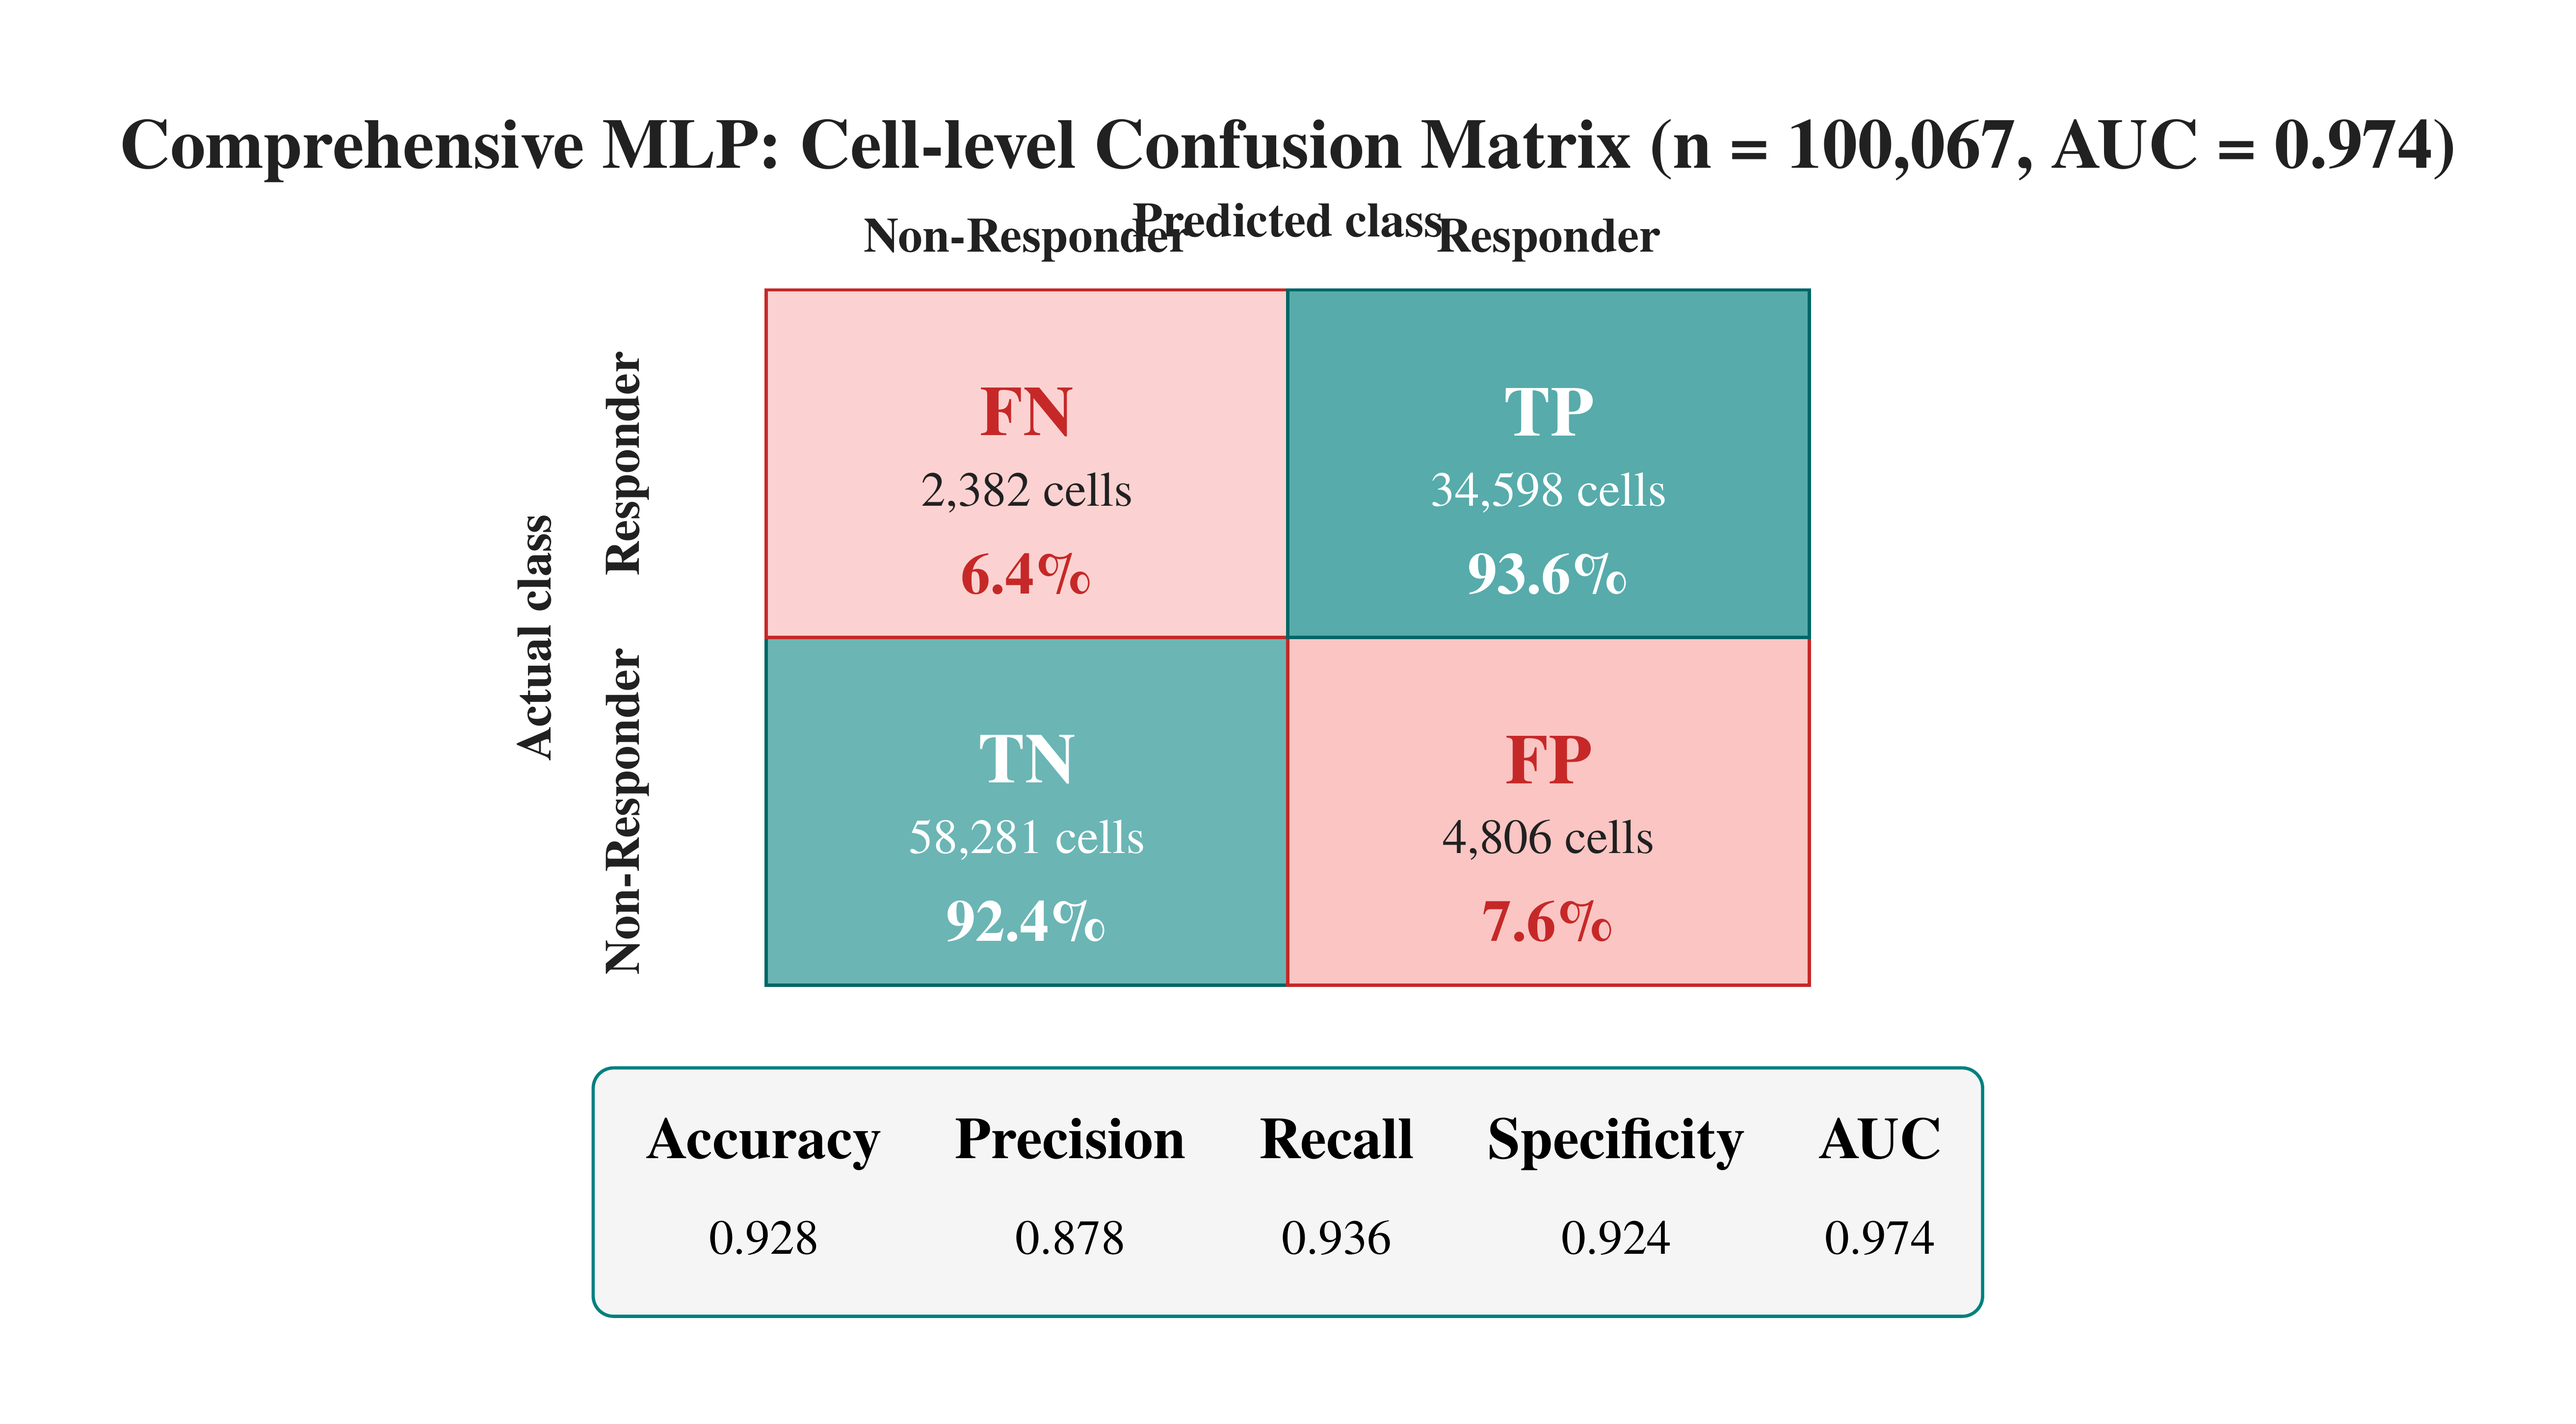
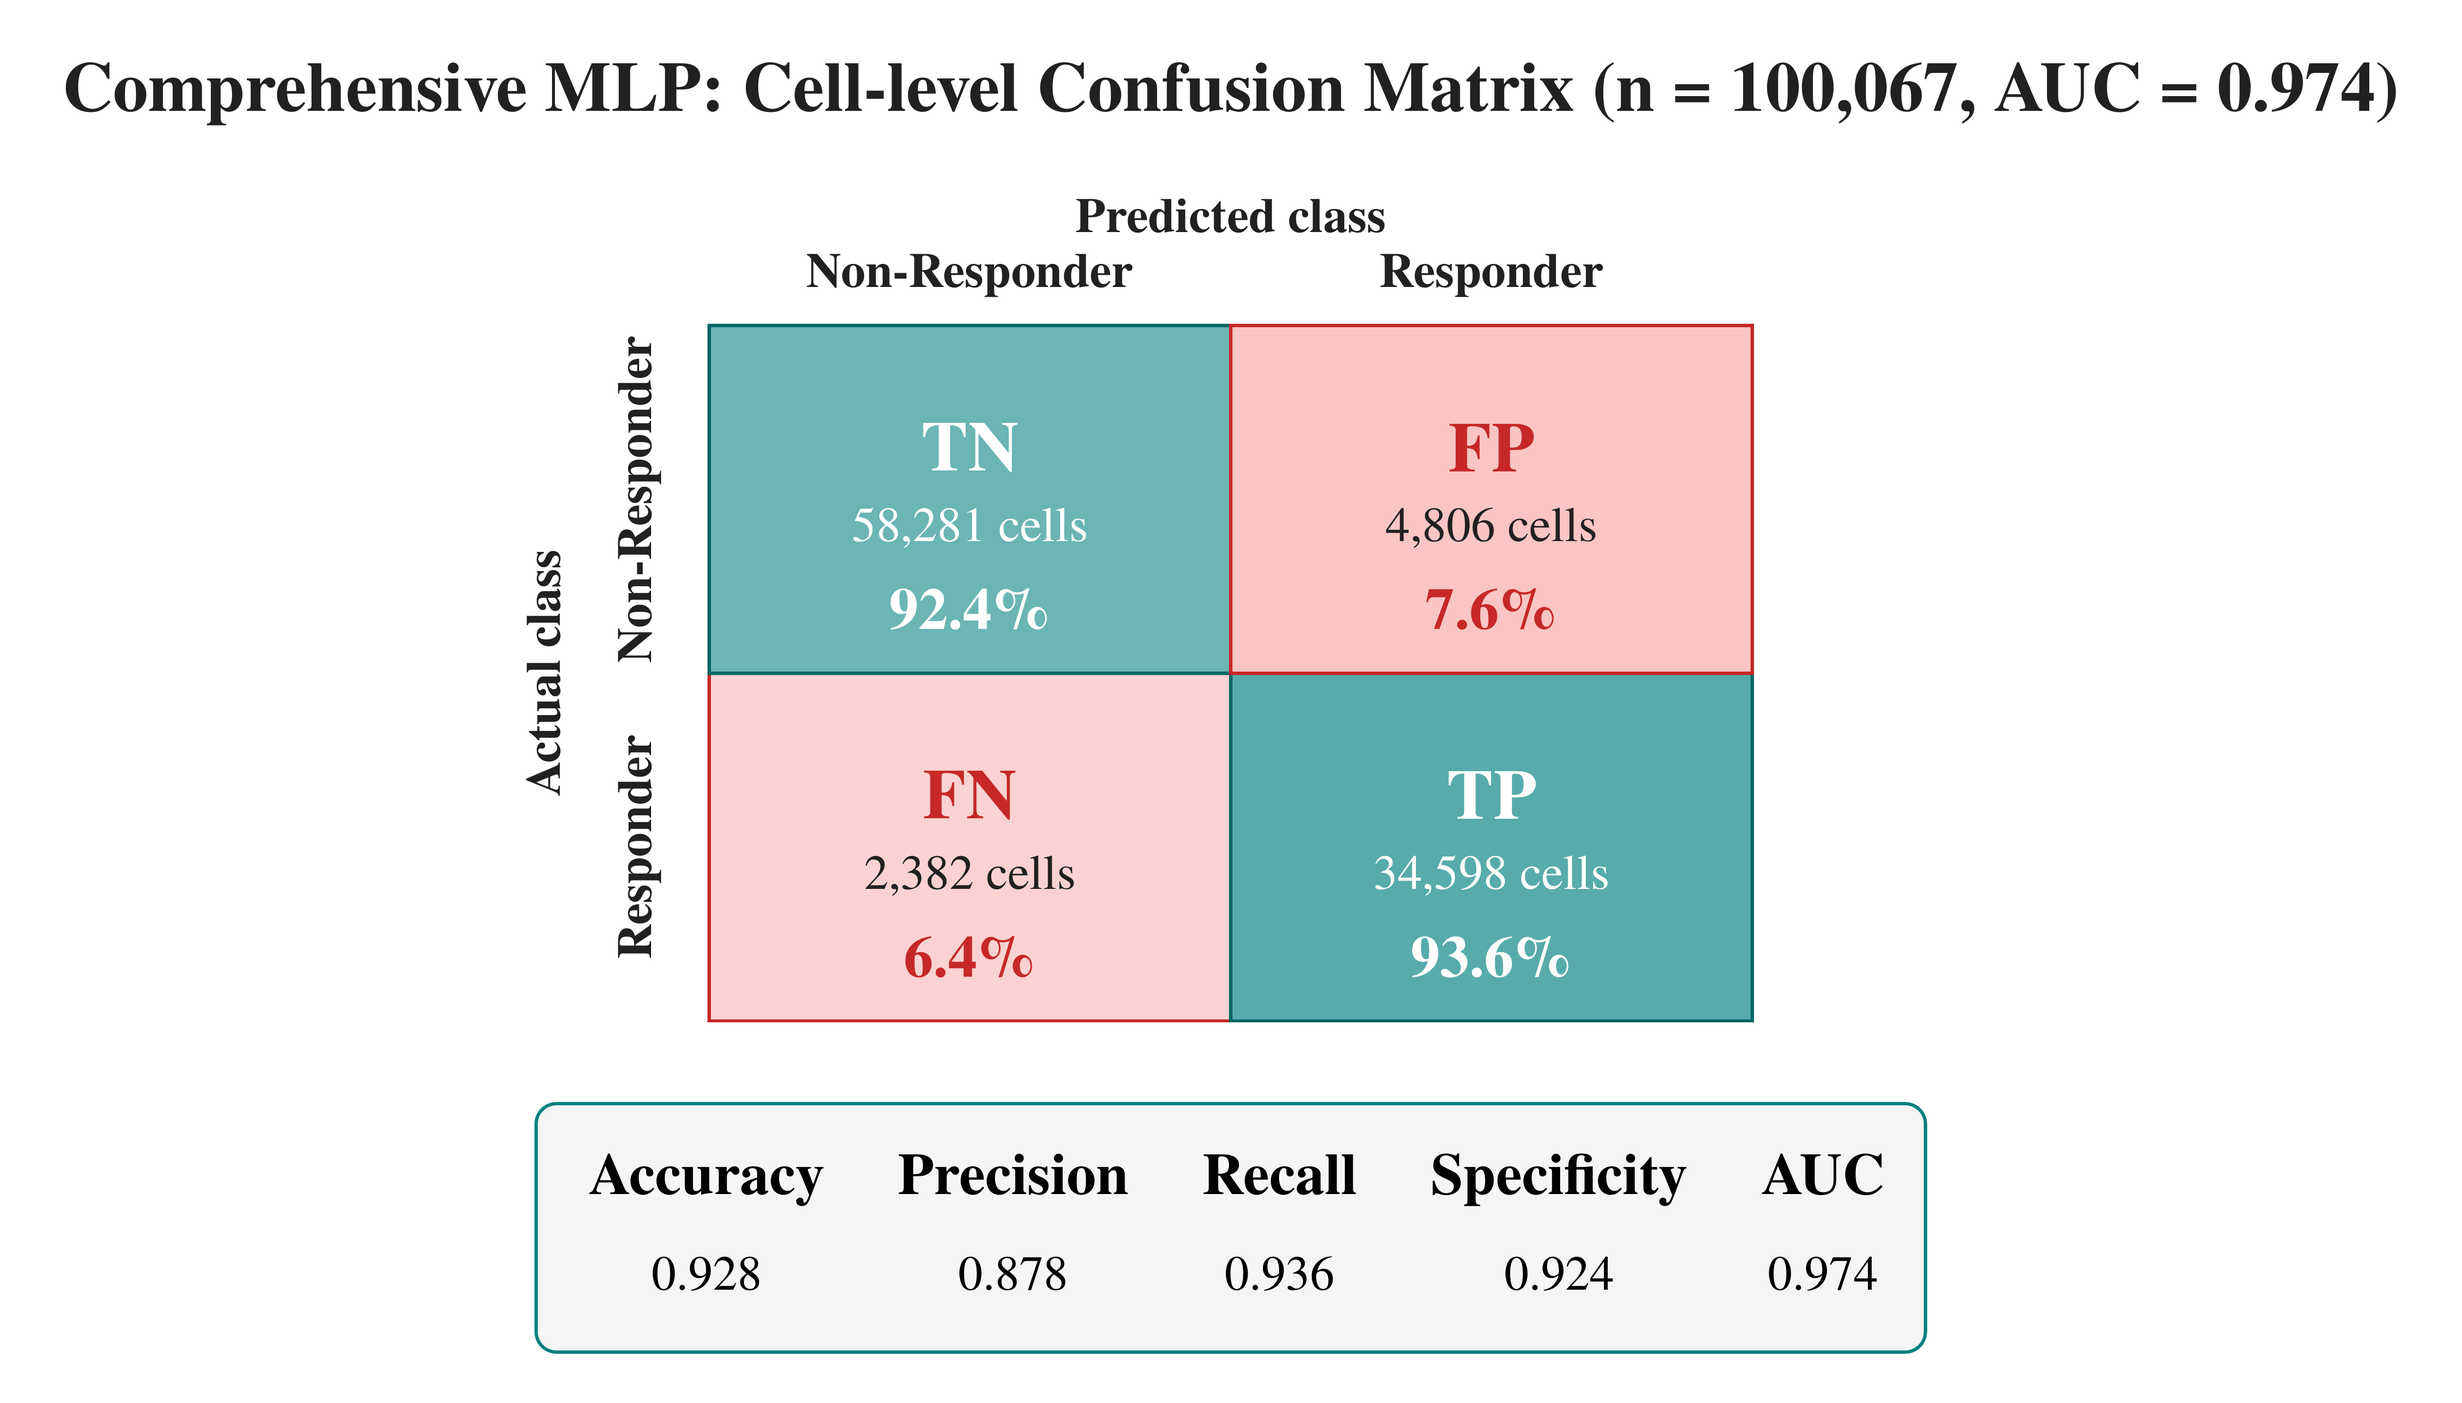
fixed issues

Changed region(s): [[0.0311, 0.0311, 0.9637, 0.7469], [0.3731, 0.7469, 0.7772, 0.9336], [0.2176, 0.778, 0.342, 0.9647]]

diff --git a/Image/fig06_confusion.tex b/Image/fig06_confusion.tex
@@ -1,4 +1,4 @@
-\documentclass[border=26pt]{standalone}
+\documentclass[border=12pt]{standalone}
 \usepackage{tikz}
 \usepackage{xcolor}
 \usepackage{newtxtext,newtxmath}
@@ -14,39 +14,37 @@
 \definecolor{darktext}{HTML}{212121}
 \begin{document}
 \begin{tikzpicture}[font=\large]
-% set equal top/side spacing = 1.2 units
-\node[font=\LARGE\bfseries,text=darktext] at (4.5,7.2) {Comprehensive MLP: Cell-level Confusion Matrix (n = 100,067, AUC = 0.974)};
-\node[font=\large\bfseries,text=darktext,align=center] at (4.5,6.6) {Predicted class};
+\node[font=\LARGE\bfseries,text=darktext] at (4.5,8.0) {Comprehensive MLP: Cell-level Confusion Matrix (n = 100,067, AUC = 0.974)};
+\node[font=\large\bfseries,text=darktext,align=center] at (4.5,7.0) {Predicted class};
 \node[font=\large\bfseries,text=darktext,align=center,anchor=south] at (2.25,6.12) {Non-Responder};
 \node[font=\large\bfseries,text=darktext,align=center,anchor=south] at (6.75,6.12) {Responder}; 
-% left-side spacing of 1.2 units (matrix left edge at x=0)
-\node[font=\large\bfseries,text=darktext,rotate=90,transform shape,anchor=center] at (-2.0,3.0) {Actual class};
-\node[font=\large\bfseries,text=darktext,rotate=90,transform shape,align=center,anchor=center] at (-1.2,4.5) {Responder};
-\node[font=\large\bfseries,text=darktext,rotate=90,transform shape,align=center,anchor=center] at (-1.2,1.5) {Non-Responder};
+\node[font=\large\bfseries,text=darktext,rotate=90,transform shape,anchor=center] at (-1.33,3.0) {Actual class};
+\node[font=\large\bfseries,text=darktext,rotate=90,transform shape,align=center,anchor=center] at (-0.6,4.5) {Non-Responder};
+\node[font=\large\bfseries,text=darktext,rotate=90,transform shape,align=center,anchor=center] at (-0.6,1.5) {Responder};
 
-\fill[teal!58] (0,0) rectangle (4.5,3.0);
-\draw[tealdark,thick] (0,0) rectangle (4.5,3.0);
-\node[font=\LARGE\bfseries,text=white] at (2.25,1.95) {TN};
-\node[font=\large,text=white] at (2.25,1.25) {58,281 cells};
-\node[font=\Large\bfseries,text=white] at (2.25,0.55) {92.4\%};
+\fill[warmred!26] (0,0) rectangle (4.5,3.0);
+\draw[accentred,thick] (0,0) rectangle (4.5,3.0);
+\node[font=\LARGE\bfseries,text=accentred] at (2.25,1.95) {FN};
+\node[font=\large,text=darktext] at (2.25,1.25) {2,382 cells};
+\node[font=\Large\bfseries,text=accentred] at (2.25,0.55) {6.4\%};
 
-\fill[warmred!34] (4.5,0) rectangle (9.0,3.0);
-\draw[accentred,thick] (4.5,0) rectangle (9.0,3.0);
-\node[font=\LARGE\bfseries,text=accentred] at (6.75,1.95) {FP};
-\node[font=\large,text=darktext] at (6.75,1.25) {4,806 cells};
-\node[font=\Large\bfseries,text=accentred] at (6.75,0.55) {7.6\%};
+\fill[teal!66] (4.5,0) rectangle (9.0,3.0);
+\draw[tealdark,thick] (4.5,0) rectangle (9.0,3.0);
+\node[font=\LARGE\bfseries,text=white] at (6.75,1.95) {TP};
+\node[font=\large,text=white] at (6.75,1.25) {34,598 cells};
+\node[font=\Large\bfseries,text=white] at (6.75,0.55) {93.6\%};
 
-\fill[warmred!26] (0,3.0) rectangle (4.5,6.0);
-\draw[accentred,thick] (0,3.0) rectangle (4.5,6.0);
-\node[font=\LARGE\bfseries,text=accentred] at (2.25,4.95) {FN};
-\node[font=\large,text=darktext] at (2.25,4.25) {2,382 cells};
-\node[font=\Large\bfseries,text=accentred] at (2.25,3.55) {6.4\%};
+\fill[teal!58] (0,3.0) rectangle (4.5,6.0);
+\draw[tealdark,thick] (0,3.0) rectangle (4.5,6.0);
+\node[font=\LARGE\bfseries,text=white] at (2.25,4.95) {TN};
+\node[font=\large,text=white] at (2.25,4.25) {58,281 cells};
+\node[font=\Large\bfseries,text=white] at (2.25,3.55) {92.4\%};
 
-\fill[teal!66] (4.5,3.0) rectangle (9.0,6.0);
-\draw[tealdark,thick] (4.5,3.0) rectangle (9.0,6.0);
-\node[font=\LARGE\bfseries,text=white] at (6.75,4.95) {TP};
-\node[font=\large,text=white] at (6.75,4.25) {34,598 cells};
-\node[font=\Large\bfseries,text=white] at (6.75,3.55) {93.6\%};
+\fill[warmred!34] (4.5,3.0) rectangle (9.0,6.0);
+\draw[accentred,thick] (4.5,3.0) rectangle (9.0,6.0);
+\node[font=\LARGE\bfseries,text=accentred] at (6.75,4.95) {FP};
+\node[font=\large,text=darktext] at (6.75,4.25) {4,806 cells};
+\node[font=\Large\bfseries,text=accentred] at (6.75,3.55) {7.6\%};
 
 % removed duplicate metric table; keeping the improved table below
 \node[draw=teal,thick,rounded corners=5pt,fill=lightgray,inner sep=10pt,anchor=north] at (4.5,-0.7) {

diff --git a/Image/visual_abstract.tex b/Image/visual_abstract.tex
@@ -1,0 +1,84 @@
+% Standalone visual abstract for peripheral blood -> response prediction
+\documentclass[tikz,border=10pt]{standalone}
+\usepackage{tikz}
+\usetikzlibrary{shadows,shapes,arrows.meta,positioning,calc}
+\begin{document}
+\begin{tikzpicture}[font=\sffamily, every node/.style={align=center}]
+  % Colors
+  \definecolor{step1}{RGB}{230,240,255}
+  \definecolor{step2}{RGB}{230,255,230}
+  \definecolor{step3}{RGB}{255,245,230}
+  \definecolor{step4}{RGB}{245,230,255}
+  \definecolor{step5}{RGB}{230,255,245}
+
+  % Common styles
+  \tikzset{step/.style={rectangle,rounded corners=6pt,draw=gray!50,very thick,minimum width=2.6cm,minimum height=3.0cm,inner sep=6pt,drop shadow={shadow xshift=1pt,shadow yshift=-1pt}}}
+  \tikzset{labelsmall/.style={font=\footnotesize,color=black}}
+
+  % Coordinates
+  \coordinate (A) at (0,0);
+  \coordinate (B) at (4,0);
+  \coordinate (C) at (8,0);
+  \coordinate (D) at (12,0);
+  \coordinate (E) at (16,0);
+
+  % Step 1: Peripheral blood (droplet)
+  \node[step,fill=step1] (s1) at (A) {};
+  \begin{scope}[shift={(s1.center)}]
+    \fill[red!70!black] (-0.25,0.2) .. controls (0,0.9) and (0.6,0.9) .. (0.6,0.2) .. controls (0.3,-0.9) and (-0.65,-0.1) .. (-0.25,0.2) ;
+  \end{scope}
+  \node[labelsmall,below=2.6em of s1] {Peripheral\\blood};
+
+  % Step 2: scRNA + TCR (cell + chain)
+  \node[step,fill=step2] (s2) at (B) {};
+  \begin{scope}[shift={(s2.center)}]
+    \draw[fill=blue!70!black] (-0.5,-0.1) circle (0.6cm);
+    \draw[line width=1.2pt] (0.15,-0.2) to[out=30,in=210] (1.0,0.6) to[out=30,in=210] (1.8,1.3);
+    \foreach \x in {0.9,1.4,1.8} \fill[gray] (\x,0.6) circle (0.08cm);
+  \end{scope}
+  \node[labelsmall,below=2.6em of s2] {scRNA +\\TCR sequencing};
+
+  % Step 3: Feature engineering (gears/blocks)
+  \node[step,fill=step3] (s3) at (C) {};
+  \begin{scope}[shift={(s3.center)}]
+    \fill[orange!80!black] (-0.9,0) circle (0.28cm);
+    \fill[orange!80!black] (0,0) circle (0.28cm);
+    \fill[orange!80!black] (0.9,0) circle (0.28cm);
+    \draw[thick] (-1.25,0) -- (-0.55,0);
+    \draw[thick] (-0.25,0) -- (0.25,0);
+    \draw[thick] (0.55,0) -- (1.25,0);
+  \end{scope}
+  \node[labelsmall,below=2.6em of s3] {Feature\\engineering};
+
+  % Step 4: Unsupervised clustering + supervised models (clusters + model box)
+  \node[step,fill=step4] (s4) at (D) {};
+  \begin{scope}[shift={(s4.center)}]
+    \fill[purple!70!black] (-0.6,0.2) circle (0.12cm);
+    \fill[purple!70!black] (-0.1,-0.3) circle (0.12cm);
+    \fill[purple!70!black] (0.5,0.1) circle (0.12cm);
+    \fill[purple!70!black] (0.9,-0.25) circle (0.12cm);
+    \draw[rounded corners=4pt,thick] (-0.85,-0.9) rectangle (-0.25,-0.5);
+    \node[font=\scriptsize,anchor=west] at (-0.83,-0.7) {Autoencoder};
+  \end{scope}
+  \node[labelsmall,below=2.6em of s4] {Clustering +\\Models};
+
+  % Step 5: Response prediction (arrow + check)
+  \node[step,fill=step5] (s5) at (E) {};
+  \begin{scope}[shift={(s5.center)}]
+    \draw[line width=3pt,green!70!black,-{Stealth[length=5mm]}] (-0.9,0.2) -- (0.6,0.2);
+    \draw[fill=green!60!black] (0.9,0.0) -- (1.4,0.45) -- (0.9,0.9) -- (0.6,0.6) -- (1.05,0.2) -- cycle;
+    \draw[white,line width=2pt] (0.9,0.35) -- (1.05,0.2);
+  \end{scope}
+  \node[labelsmall,below=2.6em of s5] {Response\\prediction};
+
+  % Arrows between steps with labels above (minimal)
+  \draw[thick,-{Stealth[length=4mm]}] (s1.east) -- ++(0.6,0) -- ++(0.6,0) -- ++(0.6,0) node[midway,above,font=\footnotesize]{Single-cell capture};
+  \draw[thick,-{Stealth[length=4mm]}] (s2.east) -- ++(0.6,0) node[midway,above,font=\footnotesize]{Sequencing};
+  \draw[thick,-{Stealth[length=4mm]}] (s3.east) -- ++(0.6,0) node[midway,above,font=\footnotesize]{Features};
+  \draw[thick,-{Stealth[length=4mm]}] (s4.east) -- ++(0.6,0) node[midway,above,font=\footnotesize]{Prediction};
+
+  % Bottom legend/supplementary small notes
+  \node[anchor=north west,font=\tiny] at ($(s1.south west)+( -0.2,-1.0)$) {Clean icons, one per step, L->R flow};
+
+\end{tikzpicture}
+\end{document}
